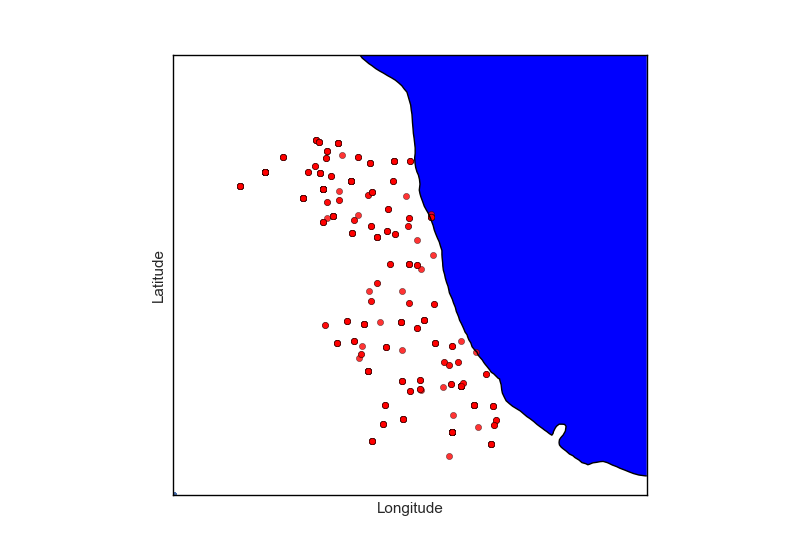
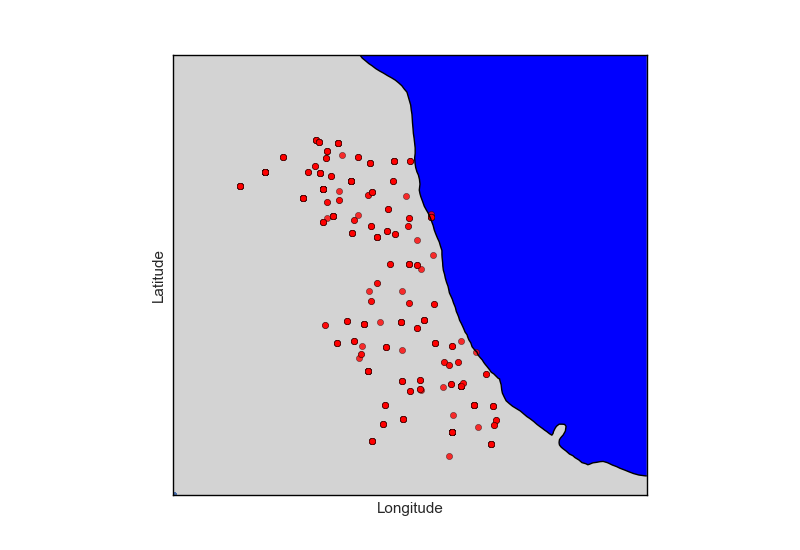
Added year

Changed region(s): [[0.2188, 0.0927, 0.8125, 0.9273]]

diff --git a/WestNile/PreProcessing.py b/WestNile/PreProcessing.py
@@ -57,12 +57,19 @@ def preProcessData():
             day+=dayarr[i]
         return day/7
 
+    def create_year(x):
+        return x.split('-')[0]
+
     X_train['month'] = X_train.Date.apply(create_month)
     X_train['day'] = X_train.Date.apply(create_day)
     X_train['week'] = X_train.Date.apply(create_week)
+    X_train['year'] = X_train.Date.apply(create_year)
     X_test['month'] = X_test.Date.apply(create_month)
     X_test['day'] = X_test.Date.apply(create_day)
     X_test['week'] = X_test.Date.apply(create_week)
+    X_test['year'] = X_train.Date.apply(create_year)
+
+    print X_train.head(5)
 
     X_true = X_train[X_train.WnvPresent == 1]
     plot = sns.regplot('Longitude', 'Latitude', X_true, fit_reg=False)
@@ -160,7 +167,7 @@ def preProcessData_MergeClosest():
         return day/7
 
     def create_year(x):
-        return x.split('-')[1]
+        return x.split('-')[0]
 
     X_train['month'] = X_train.Date.apply(create_month)
     X_train['day'] = X_train.Date.apply(create_day)
@@ -170,6 +177,8 @@ def preProcessData_MergeClosest():
     X_test['day'] = X_test.Date.apply(create_day)
     X_test['week'] = X_test.Date.apply(create_week)
     X_test['year'] = X_train.Date.apply(create_year)
+
+    print X_train.head(5)
 
     X_true = X_train[X_train.WnvPresent == 1]
     plot = sns.regplot('Longitude', 'Latitude', X_true, fit_reg=False)

diff --git a/WestNile/Visualization.py b/WestNile/Visualization.py
@@ -14,6 +14,10 @@ import matplotlib.cm as cm
 import seaborn as sns
 import math
 
+
+def create_year(x):
+    return x.split('-')[1]
+
 # Load dataset
 X_train = pd.read_csv('input/train.csv')
 X_test = pd.read_csv('input/test.csv')
@@ -22,12 +26,13 @@ weather = pd.read_csv('input/weather.csv')
 spray = pd.read_csv('input/spray.csv')
 
 y_train = X_train['WnvPresent']
-
+X_train['year'] = X_train.Date.apply(create_year)
 
 X_true = X_train[X_train.WnvPresent == 1]
 plot = sns.regplot('Longitude', 'Latitude', X_true, fit_reg=False)
-plotX = X_true['Longitude'].values
-plotY = X_true['Latitude'].values
+
+plotX1 = X_true['Longitude'].values
+plotY1 = X_true['Latitude'].values
 #plot.set_ylim(41.6,42.05)
 #plot.set_xlim(-87.95,-87.5)
 #fig = plot.get_figure()
@@ -46,10 +51,10 @@ print "here"
 # draw a boundary around the map, fill the background.
 # this background will end up being the ocean color, since
 # the continents will be drawn on top.
-plotX, plotY = m(plotX,plotY)
+plotX, plotY = m(plotX1,plotY1)
 m.drawmapboundary(fill_color='aqua')
 # fill continents, set lake color same as ocean color.
-m.fillcontinents(color='white',lake_color='blue', zorder=0)
+m.fillcontinents(color='lightgrey',lake_color='blue', zorder=0)
 m.scatter(plotX, plotY, c='red', marker="o", alpha=.8)
 fig = plot.get_figure()
 fig.savefig('map.png')
